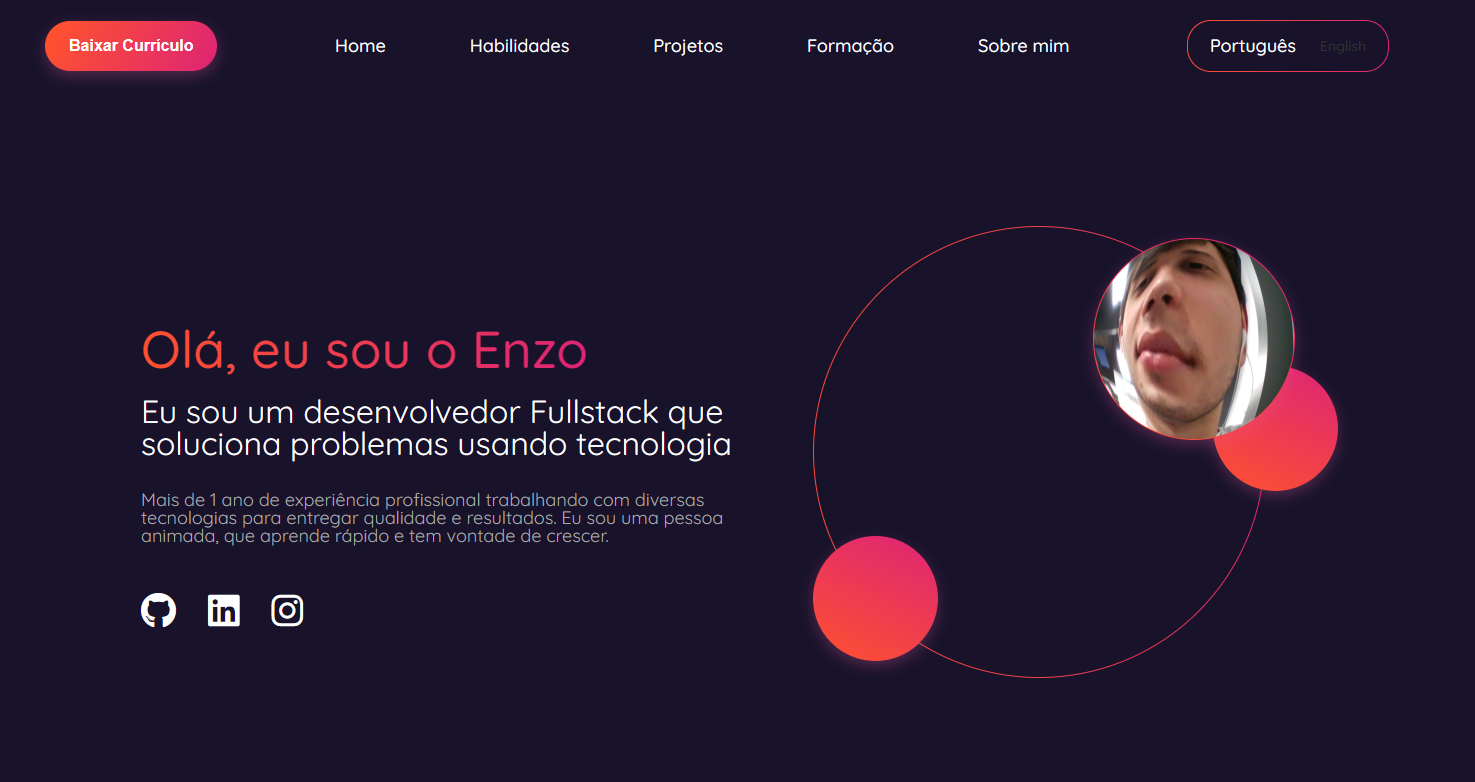
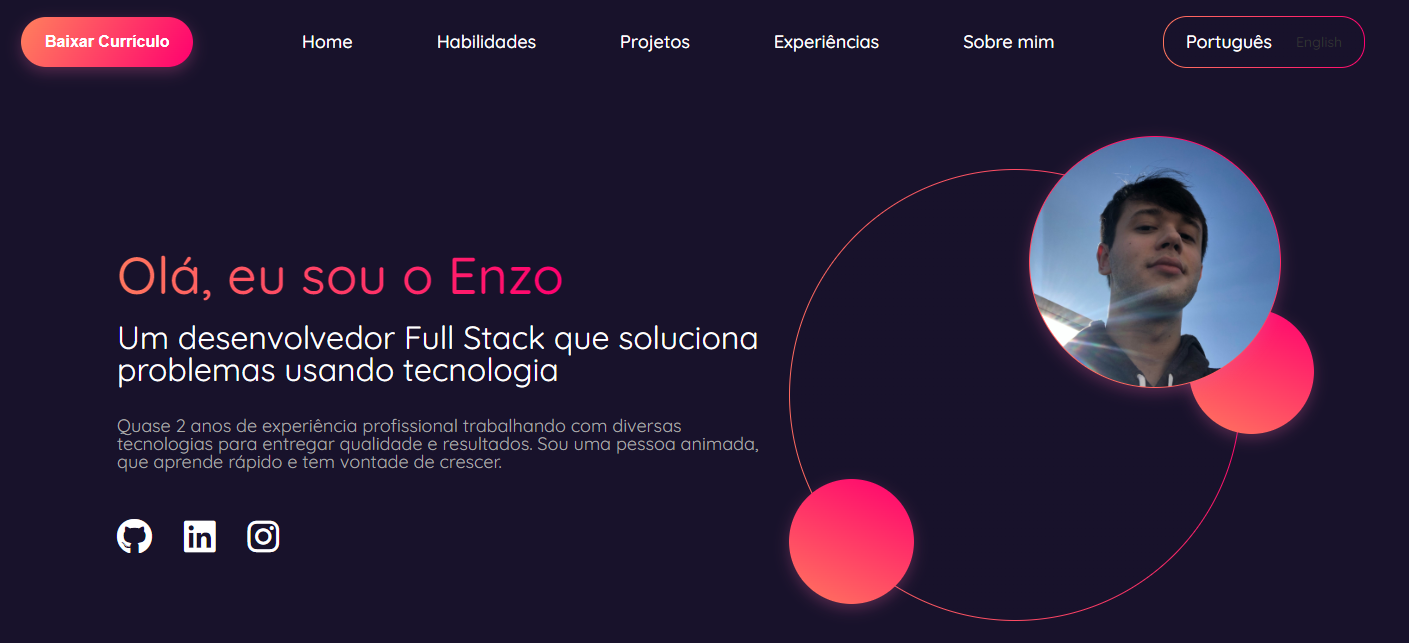
#17 - Updated all photos in the application - Adjustes some styles in HomePage

diff --git a/src/components/ui/menuSidebar/header/MarketingHeader.tsx b/src/components/ui/menuSidebar/header/MarketingHeader.tsx
@@ -1,16 +1,16 @@
-import styles from './MarketingHeader.module.css'
+import styles from './MarketingHeader.module.css';
 
 import React from 'react';
 
-import photo from 'src/assets/temp.png';
+import photo from 'src/assets/squarebw.jpg';
 import ShinyImage from 'src/components/ui/ShinyImage.tsx';
 import SocialButtons from 'src/components/ui/SocialButtons.tsx';
 
-export default function MarketingHeader () {
+export default function MarketingHeader() {
   return (
     <div className={`${styles.marketingHeaderWrapper}`}>
       <ShinyImage imageSrc={photo} />
       <SocialButtons />
     </div>
-  )
+  );
 }

diff --git a/src/components/pages/about/AboutPage.tsx b/src/components/pages/about/AboutPage.tsx
@@ -1,7 +1,7 @@
 import styles from './AboutPage.module.css';
 
 import DefaultTabLayout from 'src/components/ui/navigation/DefaultTabLayout.tsx';
-import photo from 'src/assets/temp.png';
+import photo from 'src/assets/sitbw.jpg';
 import { useTranslation } from 'react-i18next';
 import SocialButtons from 'src/components/ui/SocialButtons.tsx';
 import { motion } from 'framer-motion';

diff --git a/src/components/pages/home/HomePage.tsx b/src/components/pages/home/HomePage.tsx
@@ -4,7 +4,7 @@ import 'src/utils/Common.css';
 import React from 'react';
 import { useTranslation } from 'react-i18next';
 
-import photo from 'src/assets/temp.png';
+import photo from 'src/assets/squareblueksy.jpg';
 
 import { motion } from 'framer-motion';
 import { itemVariants } from 'src/utils/Animations.tsx';

diff --git a/src/utils/Vars.css b/src/utils/Vars.css
@@ -5,7 +5,7 @@
   --primary-purple-dark: #18122b;
   --primary-purple-dark-menu: #0f0b1c;
   --primary-orange: #ff775e;
-    --primary-pink: #ff006f;
+  --primary-pink: #ff006f;
   --shadow-pink: rgba(229, 93, 154, 0.3);
   --shadow-purple: rgba(8, 5, 28, 0.5);
   --soft-shadow-purple: rgba(8, 5, 28, 0.35);

diff --git a/src/components/pages/home/HomePage.module.css b/src/components/pages/home/HomePage.module.css
@@ -138,9 +138,9 @@
 }
 
 .shinyImage {
-  width: 200px;
-  height: 200px;
-  top: -440px;
-  left: 280px;
+  width: 250px;
+  height: 250px;
+  top: -485px;
+  left: 240px;
   position: relative;
 }
